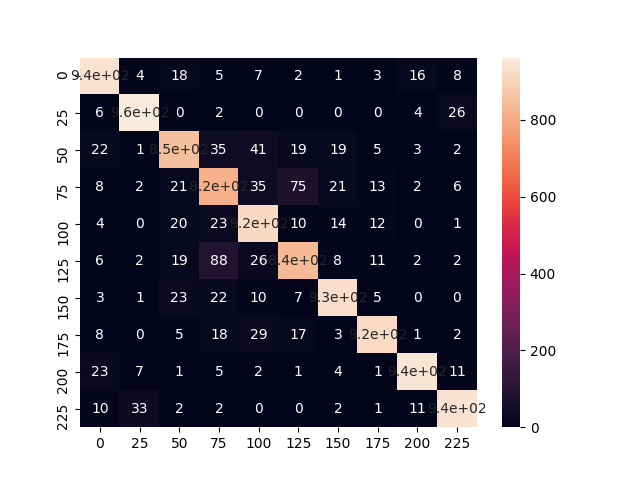
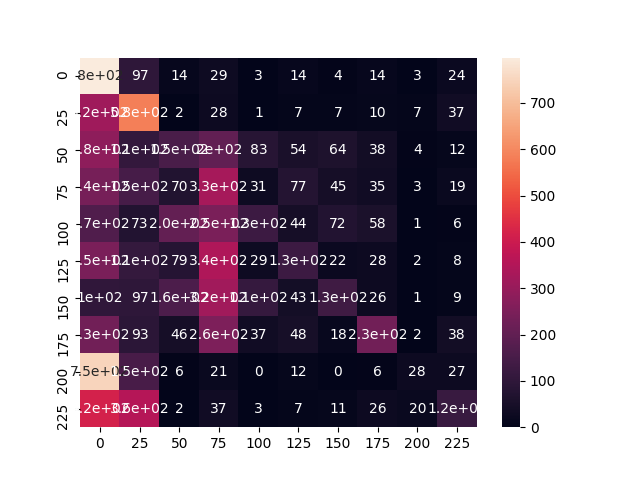
cifar90.83 dropout14

diff --git a/main.py b/main.py
@@ -196,7 +196,7 @@ if __name__ == '__main__':
 
     # Check whether a GPU is available
     if torch.cuda.is_available():
-        device = 3#torch.device("cuda")
+        device = 0#torch.device("cuda")
         cuda.init()
         c_device = aboutCudaDevices()
         print(c_device.info())
@@ -239,7 +239,7 @@ if __name__ == '__main__':
     l_states = learningStats()
     early_stopping = EarlyStopping()
     my_lr_scheduler =\
-        torch.optim.lr_scheduler.ExponentialLR(optimizer=optimizer, gamma=0.98)
+        torch.optim.lr_scheduler.ExponentialLR(optimizer=optimizer, gamma=0.99)
     for e in range(params['Network']['epochs']):
         l_states.training.reset()
         train(net, train_loader, optimizer, e, l_states, params['Network'], params['Layers'], error)

diff --git a/layers/conv.py b/layers/conv.py
@@ -72,7 +72,7 @@ class ConvLayer(nn.Conv3d):
 
         super(ConvLayer, self).__init__(in_features, out_features, kernel, stride, padding, dilation, groups,
                                         bias=False)
-        # nn.init.kaiming_uniform_(self.weight)
+        #nn.init.normal_(self.weight)
         self.weight = torch.nn.Parameter(weight_scale * self.weight, requires_grad=True)
 
         self.in_shape = in_shape
